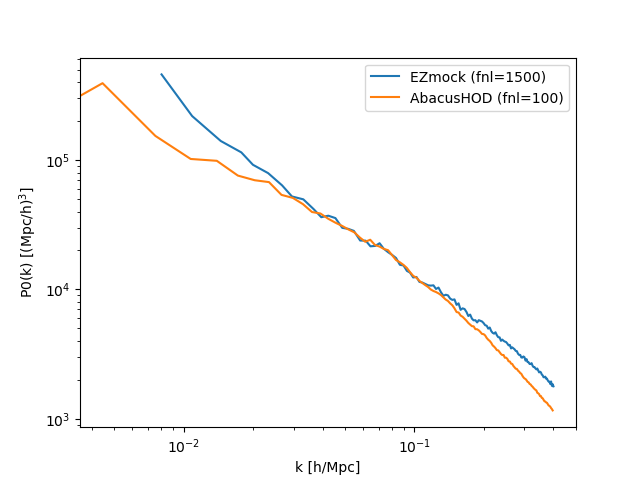
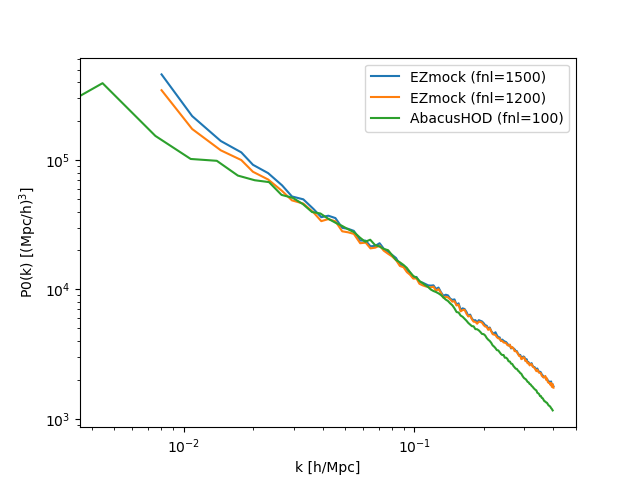
covPNG: add fnl1200, still high

diff --git a/covPNG/plot-ezmock-z3.py b/covPNG/plot-ezmock-z3.py
@@ -33,6 +33,12 @@ data2ez = np.loadtxt(path2ez)
 x_ez, y_ez, z_ez = data2ez[:,0], data2ez[:,1], data2ez[:,2]
 poles_ez = run_pypower_redshift(x_ez, y_ez, z_ez, Lbox=1000, Nmesh=256, edges=edges, ells=ells, mpicomm=mpicomm, mpiroot=mpiroot)
 
+path2ez2='out/EZmock_L1000_N256_fnl1200_c0_e3_b0.48_v400.dat'
+data2ez2 = np.loadtxt(path2ez2)
+x_ez2, y_ez2, z_ez2 = data2ez2[:,0], data2ez2[:,1], data2ez2[:,2]
+poles_ez2 = run_pypower_redshift(x_ez2, y_ez2, z_ez2, Lbox=1000, Nmesh=256, edges=edges, ells=ells, mpicomm=mpicomm, mpiroot=mpiroot)
+
+
 # %%
 sim='Abacus_pngbase_c302_ph000'
 redshift = 3.0
@@ -48,6 +54,7 @@ from matplotlib import pyplot as plt
 
 # %%
 plt.plot(*poles_ez(ell=0, return_k=True, complex=False), label='EZmock (fnl=1500)')
+plt.plot(*poles_ez2(ell=0, return_k=True, complex=False), label='EZmock (fnl=1200)')
 plt.plot(*poles_ab(ell=0, return_k=True, complex=False), label='AbacusHOD (fnl=100)')
 plt.xscale('log')
 plt.yscale('log')

diff --git a/covPNG/genEZmock-z3.py b/covPNG/genEZmock-z3.py
@@ -7,7 +7,7 @@ from EZmock import EZmock
 # ## Read Reference Mock
 
 # %%
-fnl =1500
+fnl =1200
 redshift = 3.0
 
 # %%
@@ -46,7 +46,7 @@ def setup_ez(Lbox=1000, Ngrid=256, seed=42):
 ## to speed up the process during calibration, you can use smaller box and lower grid resolution first, and then go back to the right setting for final check
 Lbox = 1000
 Ngrid = 256
-seed = '42_z3L1000N256fnl1500'  # seed can be a string
+seed = '42_z3L1000N256fnl1200'  # seed can be a string
 ntracer = num//8
 
 ez = setup_ez(Lbox=Lbox, Ngrid=Ngrid, seed=seed)
